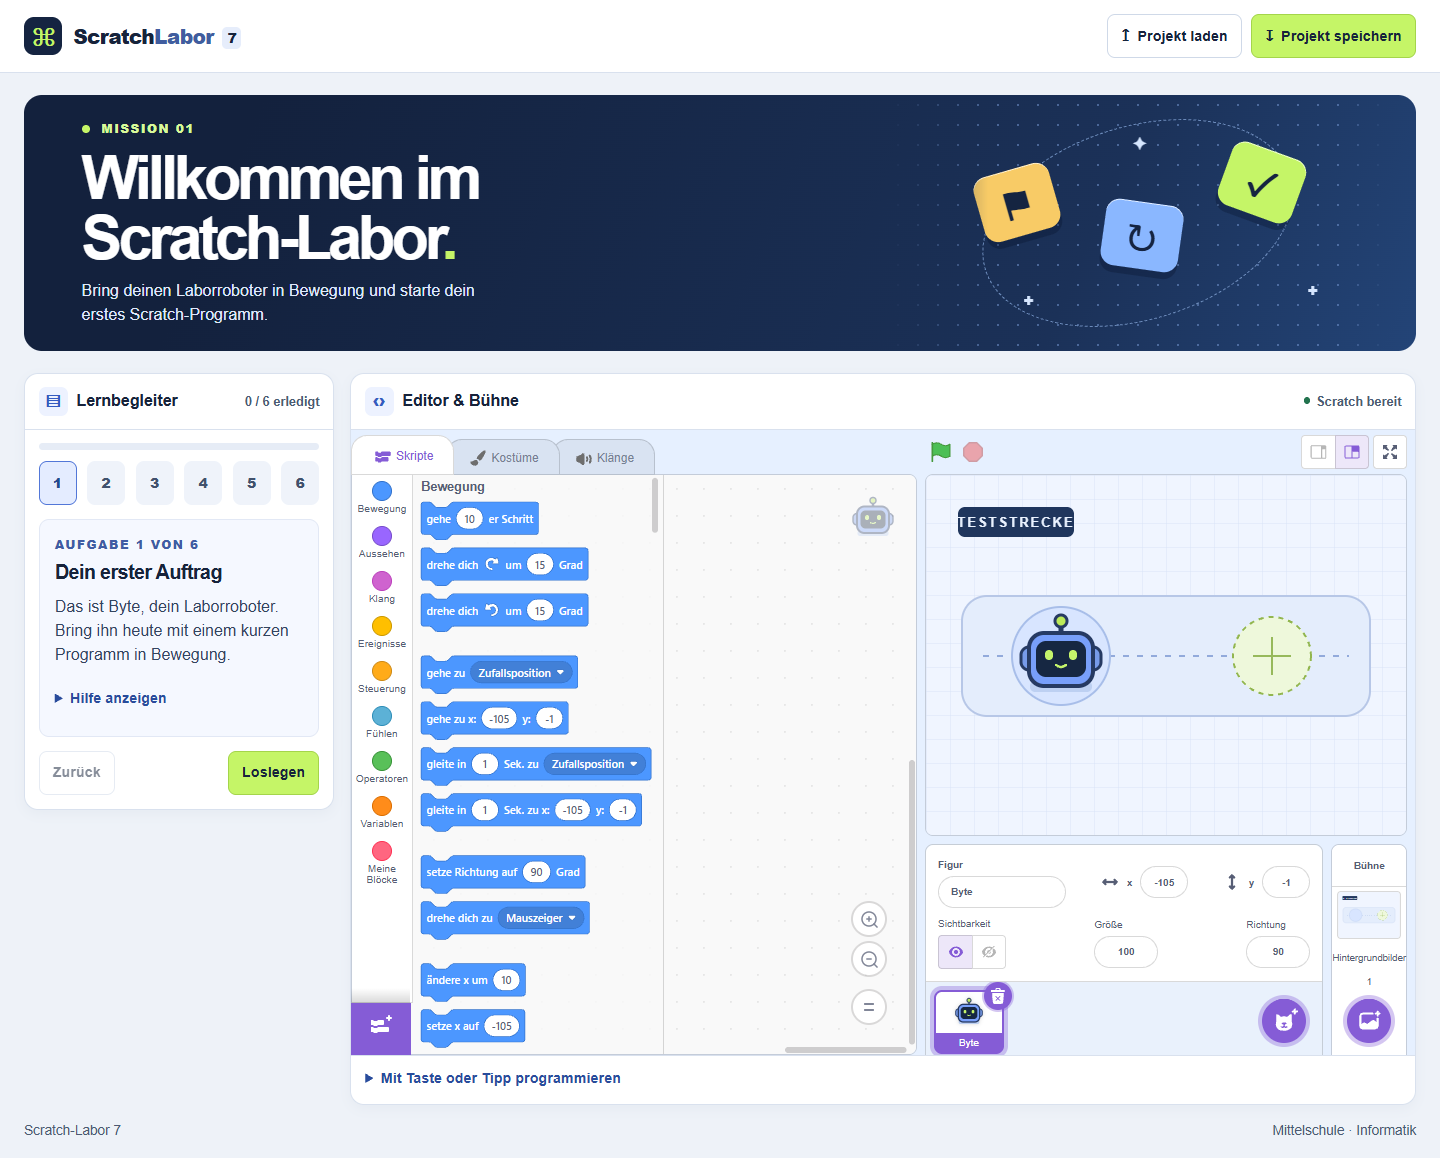
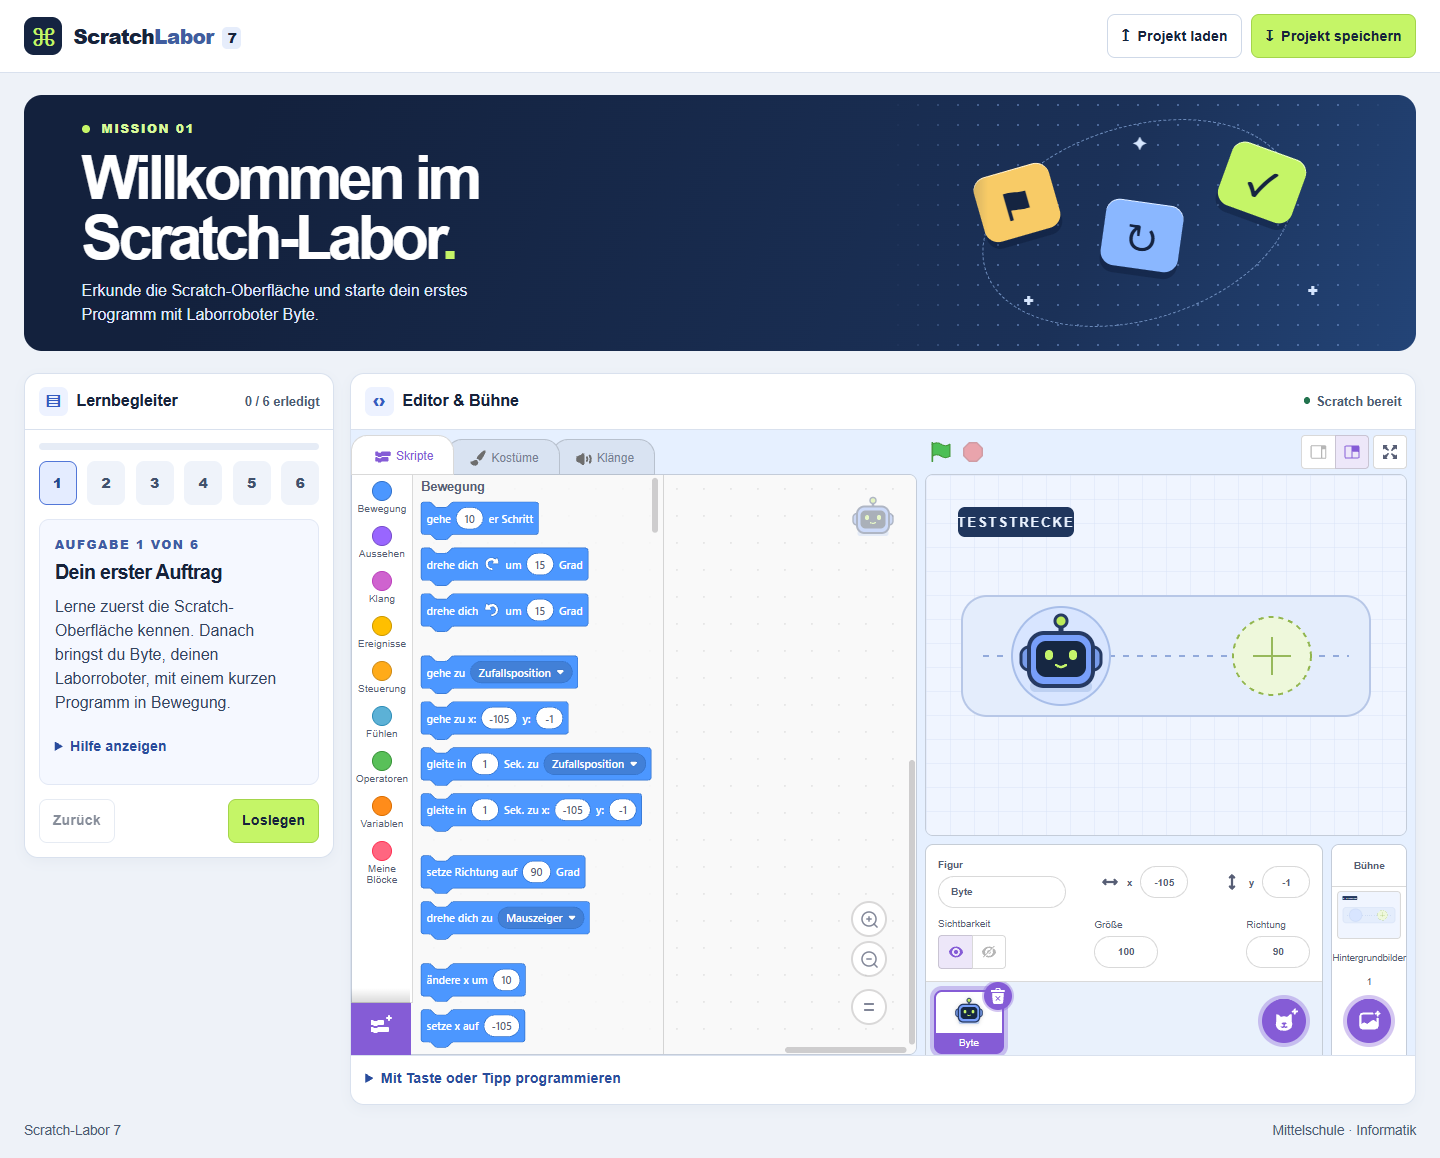
Teach the Scratch interface before the first block

Changed region(s): [[0.0312, 0.4974, 0.1875, 0.715], [0.1562, 0.6218, 0.2188, 0.7461], [0.0625, 0.2487, 0.3125, 0.2798]]

diff --git a/public/labor.js b/public/labor.js
@@ -1,4 +1,4 @@
-import { mission } from './mission.js';
+import { areas, mission } from './mission.js';
 import { openScratch } from './scratch.js';
 
 const byId = id => document.getElementById(id);
@@ -16,6 +16,78 @@ let hintIndex = 0;
 let scratch;
 let busy = true;
 let filename = 'Mission-1-Byte.sb3';
+let selectedArea;
+const editorScroll = document.querySelector('.editor-scroll');
+const selectors = {
+  stage: 'canvas',
+  sprites: '[class*="sprite-selector_items-wrapper"]',
+  blocks: '.blocklyToolboxFlyout',
+  scripts: '.blocklyMainBackground'
+};
+
+function markArea() {
+  const marker = byId('area-marker');
+  const editor = byId('editor');
+  const target = selectedArea && editor.querySelector(selectors[selectedArea.id]);
+  const bounds = target?.getBoundingClientRect();
+  if (!bounds?.width || !bounds.height) {
+    marker.hidden = true;
+    return;
+  }
+  const frame = editorScroll.getBoundingClientRect();
+  const left = selectedArea.id === 'scripts'
+    ? Math.max(bounds.left, editor.querySelector(selectors.blocks)?.getBoundingClientRect().right ?? bounds.left)
+    : bounds.left;
+  Object.assign(marker.style, {
+    left: `${left - frame.left + editorScroll.scrollLeft}px`,
+    top: `${bounds.top - frame.top + editorScroll.scrollTop}px`,
+    width: `${Math.max(0, bounds.right - left)}px`,
+    height: `${bounds.height}px`
+  });
+  marker.hidden = false;
+}
+
+function explainArea(area) {
+  selectedArea = area;
+  const note = byId('area-note');
+  note.hidden = !area;
+  note.textContent = area ? `${area.name} · ${area.description}` : '';
+  for (const button of byId('areas').querySelectorAll('button')) {
+    button.setAttribute('aria-pressed', String(button.dataset.area === area?.id));
+  }
+  markArea();
+}
+
+for (const area of areas) {
+  const row = document.createElement('li');
+  const button = document.createElement('button');
+  const title = document.createElement('strong');
+  const description = document.createElement('span');
+  button.type = 'button';
+  button.className = 'button outline';
+  button.dataset.area = area.id;
+  button.setAttribute('aria-pressed', 'false');
+  title.textContent = area.name;
+  description.textContent = area.description;
+  button.append(title, description);
+  row.append(button);
+  byId('areas').append(row);
+  button.onclick = () => {
+    if (area.id === 'blocks' || area.id === 'scripts') {
+      const codeTab = byId('editor').querySelector('[role="tab"]');
+      if (codeTab?.getAttribute('aria-selected') === 'false') codeTab.click();
+    }
+    explainArea(area);
+    view('editor');
+    requestAnimationFrame(() => {
+      markArea();
+      if (!byId('area-marker').hidden) byId('area-marker').scrollIntoView({ block: 'nearest', inline: 'nearest' });
+    });
+  };
+}
+const orientationResize = new ResizeObserver(markArea);
+orientationResize.observe(editorScroll);
+window.addEventListener('resize', () => requestAnimationFrame(markArea));
 
 function remember() {
   try { localStorage.setItem(progressKey, JSON.stringify({ index, complete: [...complete] })); } catch { /* Session continues. */ }
@@ -49,6 +121,8 @@ function showStep(step, focus = true) {
   byId('step-label').textContent = `AUFGABE ${index + 1} VON ${mission.length}`;
   byId('step-title').textContent = task.title;
   byId('instruction').textContent = task.instruction;
+  byId('orientation').hidden = index !== 1;
+  if (index !== 1) explainArea(null);
   byId('work').hidden = index === 0;
   byId('back').disabled = index === 0;
   byId('next').textContent = task.action ?? 'Prüfen und weiter';
@@ -84,6 +158,11 @@ byId('back').onclick = () => showStep(index - 1);
 byId('more').onclick = () => { hintIndex += 1; displayHint(); };
 byId('next').onclick = () => {
   const task = mission[index];
+  if (index === 1 && !complete.has(index) && byId('area-answer').value !== 'scripts') {
+    feedback('Schau noch einmal auf die freie Arbeitsfläche neben der Blockpalette. Wie heißt sie?');
+    byId('area-answer').focus();
+    return;
+  }
   if (task.check && !complete.has(index)) {
     if (busy || !scratch) return feedback('Warte kurz, bis der Editor bereit ist.');
     if (!scratch.has(task.check)) return feedback(task.wait);
@@ -193,6 +272,7 @@ async function initialize() {
   byId('editor-status').textContent = 'Scratch bereit';
   byId('editor-status').dataset.ready = 'true';
   setBusy(false);
+  markArea();
 }
 
 const timeout = setTimeout(() => {

diff --git a/public/mission.js b/public/mission.js
@@ -1,22 +1,22 @@
 export const mission = [
   {
     title: 'Dein erster Auftrag',
-    instruction: 'Das ist Byte, dein Laborroboter. Bring ihn heute mit einem kurzen Programm in Bewegung.',
-    hints: ['Auf der Bühne siehst du Byte. Im Editor baust du sein Programm.'],
+    instruction: 'Lerne zuerst die Scratch-Oberfläche kennen. Danach bringst du Byte, deinen Laborroboter, mit einem kurzen Programm in Bewegung.',
+    hints: ['Auf der Bühne siehst du Byte. Sein Programm entsteht im Skriptbereich.'],
     action: 'Loslegen'
   },
   {
-    title: 'Erkunde das Labor',
-    instruction: 'Finde die Bühne mit Byte. Tippe unter der Bühne auf die Figur. Suche dann links im Reiter Skripte die blaue Kategorie Bewegung.',
-    hints: ['Auf kleinen Bildschirmen findest du beide Bereiche unter „Editor & Bühne“.', 'Die Bühne zeigt das Ergebnis. Unter Skripte liegen links die Blöcke und daneben die Fläche für dein Programm.'],
-    action: 'Gefunden'
+    title: 'Lerne die Scratch-Oberfläche kennen',
+    instruction: 'Wähle einen Bereich, um ihn im Scratch-Editor zu markieren. Finde danach heraus, wo dein Programm entsteht.',
+    hints: ['Die Skriptblöcke sind einzelne Befehle. In der Blockpalette findest du sie nach Kategorien sortiert.', 'Die freie Fläche rechts neben der Blockpalette ist der Skriptbereich. Dort setzt du die Blöcke zusammen.'],
+    action: 'Zum ersten Block'
   },
   {
     title: 'Bewege Byte',
-    instruction: 'Ziehe „gehe 10 er Schritt“ aus Bewegung auf die freie Codefläche. Tippe einmal auf den Block und beobachte Byte.',
+    instruction: 'Öffne den Reiter Skripte und die blaue Kategorie Bewegung. Ziehe „gehe 10 er Schritt“ aus der Blockpalette in den Skriptbereich. Tippe dort auf den Block und beobachte Byte auf der Bühne.',
     hints: ['Der Block steht weit oben in der blauen Kategorie Bewegung.', 'Öffne für die Tastaturbedienung „Mit Taste oder Tipp programmieren“. Wähle „Bewegung“ und anschließend „Einzelblock testen“.'],
     check: 'move',
-    wait: 'Lege zuerst einen Geh-Block auf die Codefläche einer Figur.',
+    wait: 'Ziehe zuerst einen Geh-Block in den Skriptbereich einer Figur.',
     success: 'Dein Bewegungsblock ist da.'
   },
   {
@@ -44,4 +44,11 @@ export const mission = [
     success: 'Mission geschafft. Byte kann laufen und sich drehen.',
     action: 'Mission abschließen'
   }
+];
+
+export const areas = [
+  { id: 'stage', name: 'Bühne', description: 'Hier siehst du, was dein Programm macht.' },
+  { id: 'sprites', name: 'Figurenliste', description: 'Wähle hier Byte aus. Jede Figur hat ihre eigenen Skripte.' },
+  { id: 'blocks', name: 'Blockpalette', description: 'Hier findest du die Skriptblöcke. Jeder Block steht für einen Befehl oder einen Teil des Programms.' },
+  { id: 'scripts', name: 'Skriptbereich', description: 'Hier setzt du Blöcke zu einem Skript zusammen. Ein Skript ist eine Folge von Befehlen.' }
 ];

diff --git a/public/index.html b/public/index.html
@@ -27,7 +27,7 @@
       <div>
         <p class="eyebrow"><span></span> MISSION 01</p>
         <h1 id="title">Willkommen im<br>Scratch-Labor<span>.</span></h1>
-        <p>Bring deinen Laborroboter in Bewegung und starte dein erstes Scratch-Programm.</p>
+        <p>Erkunde die Scratch-Oberfläche und starte dein erstes Programm mit Laborroboter Byte.</p>
       </div>
       <div class="hero-art" aria-hidden="true"><div class="orbit"></div><div class="art-tile art-event">⚑</div><div class="art-tile art-motion">↻</div><div class="art-tile art-result">✓</div><span class="spark one">✦</span><span class="spark two">+</span><span class="spark three">+</span></div>
     </section>
@@ -46,6 +46,16 @@
             <p class="step-label" id="step-label"></p>
             <h3 tabindex="-1" id="step-title"></h3>
             <p id="instruction"></p>
+            <div id="orientation" hidden>
+              <ul id="areas"></ul>
+              <label for="area-answer">Wo setzt du die Blöcke zu einem Skript zusammen?</label>
+              <select id="area-answer">
+                <option value="">Wähle einen Bereich</option>
+                <option value="stage">Auf der Bühne</option>
+                <option value="blocks">In der Blockpalette</option>
+                <option value="scripts">Im Skriptbereich</option>
+              </select>
+            </div>
             <button id="work" class="button outline work" type="button">Zum Editor und zur Bühne</button>
             <p id="feedback" role="status" class="feedback" hidden></p>
             <details id="hint"><summary>Hilfe anzeigen</summary><p id="hint-text"></p><button class="text-button" id="more" type="button">Nächster Tipp</button></details>
@@ -58,8 +68,10 @@
       </section>
       <section class="panel workspace" id="workspace" aria-labelledby="workspace-label">
         <div class="panel-head"><h2 id="workspace-label" tabindex="-1"><span class="head-icon" aria-hidden="true">‹›</span>Editor &amp; Bühne</h2><span id="editor-status" class="engine" role="status">Editor lädt …</span></div>
+        <p id="area-note" class="area-note" role="status" hidden></p>
         <div class="editor-scroll" tabindex="0" aria-label="Scratch-Arbeitsfläche">
           <div id="editor"></div>
+          <div id="area-marker" aria-hidden="true" hidden></div>
         </div>
         <details id="assist" class="assist">
           <summary>Mit Taste oder Tipp programmieren</summary>

diff --git a/public/labor.css b/public/labor.css
@@ -70,7 +70,16 @@ progress::-webkit-progress-bar { background: #e6ecf6; } progress::-webkit-progre
 summary, .text-button { font-size: .9rem; color: #294c9c; font-weight: 700; min-height: 44px; padding-block: .65rem; }
 .text-button { background: transparent; border: 0; padding-inline: 0; text-decoration: underline; }
 .work, .views { display: none; }
-.editor-scroll { overflow-x: auto; }
+.editor-scroll { position: relative; overflow-x: auto; }
+#areas { display: grid; gap: .35rem; list-style: none; padding: 0; }
+#areas button { width: 100%; text-align: left; font-size: .88rem; }
+#areas button[aria-pressed="true"] { border-color: #5277d8; background: #e4ecff; }
+#areas strong, #areas span { display: block; }
+#areas span { color: var(--muted); margin-top: .1rem; font-weight: 400; }
+#orientation label { display: block; font-weight: 700; font-size: .9rem; margin-top: .7rem; }
+#orientation select { width: 100%; min-height: 44px; margin-top: .28rem; padding: .4rem; border: 1px solid #cfd9e8; border-radius: 8px; color: var(--ink); background: #fff; font: inherit; font-size: .9rem; }
+.area-note { margin: 0; padding: .62rem .85rem; color: #19377b; background: #e4ecff; border-bottom: 1px solid #b9c9ed; }
+#area-marker { position: absolute; z-index: 12; pointer-events: none; border: 3px solid #2858cf; border-radius: 8px; box-shadow: inset 0 0 0 2px #fff; }
 #editor { height: clamp(490px, 55vh, 650px); min-width: 730px; background: #f7f9fc; }
 #editor [class*="gui_page-wrapper"] { min-width: 0; }
 #editor [class*="gui_editor-wrapper"] { flex-basis: 0; min-width: 430px; }

diff --git a/public/offline.js b/public/offline.js
@@ -1,4 +1,4 @@
-const cacheName = 'scratch-labor-7-v5';
+const cacheName = 'scratch-labor-7-v6';
 const core = ['./', './labor.css', './labor.js', './mission.js', './scratch.js', './assets/start.sb3',
   './assets/byte.svg', './vendor/dist/scratch-gui-standalone.js'];
 

diff --git a/README.md b/README.md
@@ -19,7 +19,7 @@ Für iPads im selben Schulnetz starte den Server mit `node scripts/serve.mjs --l
 
 ## Im Unterricht
 
-1. Mit **Loslegen** starten und die Bühne, die Figur und den Reiter **Skripte** erkunden.
+1. Mit **Loslegen** starten. Bühne, Figurenliste, Blockpalette und Skriptbereich im Editor markieren und die kurze Frage zum Skriptbereich beantworten.
 2. Einen Bewegungsblock ziehen und direkt ausführen. Danach das Startereignis mit der grünen Flagge verbinden.
 3. Das Programm mit zwei verschiedenen Schrittzahlen ausführen. Zum Schluss eine Drehung ergänzen und die Reihenfolge erproben.
 4. Mit **Projekt speichern** eine `.sb3`-Datei herunterladen. Mit **Projekt laden** kann Scratch dieselbe Datei später öffnen.
@@ -53,20 +53,20 @@ Der automatisierte Lauf unter Windows mit Chrome und Playwright ergab:
 | Prüfung | Ergebnis |
 | --- | --- |
 | Desktop bei 1440 × 1000 | Bewegungsblock nativ gezogen. Startereignis, Schrittzahl und Drehung ergänzt. Die Position und Richtung der Figur änderten sich beim Start wie erwartet. Alle sechs Aufgaben abgeschlossen. |
-| Tastatur und Hilfe | Hilfe und Weiter-Schaltflächen per Eingabetaste bedient. Die Eingabe eines fehlenden Blocks wurde mit einem konkreten Hinweis beantwortet. |
+| Orientierung, Tastatur und Hilfe | Alle vier Bereiche per Eingabetaste im echten Editor markiert. Hilfe, Verständnisfrage und Weiter-Schaltflächen bedient. Bei einer falschen Zuordnung und einem fehlenden Block erschien jeweils ein Hinweis. |
 | Lokale Projektdatei | .sb3 heruntergeladen, Seite neu geladen, Datei geöffnet und das gespeicherte Skript erneut ausgeführt. |
 | iPad-Emulation | Touchbedienung bei 820 × 1180, Umschaltung ins Querformat bei 1180 × 820. Einzelblock und Flaggenstapel per Touch ausgeführt. |
 | Offline | Netzwerk im Testbrowser deaktiviert und Testserver gestoppt. Seite erneut geöffnet, .sb3 geladen und Programm gestartet. |
-| Browserdiagnostik | Keine Konsolen- oder HTTP-Fehler und keine externen Anfragen im getesteten Lernweg. |
+| Browserdiagnostik | Keine HTTP-Fehler oder externen Anfragen im Lernweg. Bei gestopptem Server meldete Scratch fehlende Dateien für die Vorbereitung des optionalen Kostümeditors. Die Mission lief weiter. |
 
-Aufnahmen aus dem Testlauf: [Desktop](screenshots/desktop.png) · [Abgeschlossene Mission](screenshots/mission-abgeschlossen.png) · [iPad hoch](screenshots/ipad-portrait.png) · [iPad quer](screenshots/ipad-querformat.png).
+Aufnahmen aus dem Testlauf: [Desktop](screenshots/desktop.png) · [Orientierung](screenshots/orientierung.png) · [Abgeschlossene Mission](screenshots/mission-abgeschlossen.png) · [iPad hoch](screenshots/ipad-portrait.png) · [iPad quer](screenshots/ipad-querformat.png).
 
 ## Grenzen und nächste Schritte
 
 - Der Prototyp enthält Mission 1. Neuladen öffnet das Startprojekt. Der Lernfortschritt bleibt im Browser, das Schülerprojekt bleibt über die gespeicherte `.sb3`-Datei erhalten.
 - Die Lernprüfung ist auf kurze, gerade Blockstapel dieser Mission ausgelegt. Sie beobachtet die ersten 240 ms nach der grünen Flagge. Freie Programme mit Wartezeiten, Schleifen oder anderen Startereignissen werden in Scratch ausgeführt, können aber durch diese Missionsprüfung unberücksichtigt bleiben.
 - Die ergänzenden Tasten decken die Missionsblöcke ab. Der volle Scratch-Editor behält seine ursprüngliche Bedienung. Auf sehr schmalen Geräten kann die Arbeitsfläche innen horizontal scrollen.
-- Scratch-Bibliotheken und Erweiterungen können beim Öffnen weitere Ressourcen benötigen. Der Offline-Test umfasst die Mission und die lokale Projektdatei. Browserdaten können nach Speicherdruck oder durch Schulrichtlinien gelöscht werden.
+- Scratch-Bibliotheken und Erweiterungen können beim Öffnen weitere Ressourcen benötigen. Das Vorladen des Kostümeditors benötigt in Chrome einen erreichbaren Server. Der Offline-Test umfasst die Mission und die lokale Projektdatei. Browserdaten können nach Speicherdruck oder durch Schulrichtlinien gelöscht werden.
 - Vor der nächsten Mission sollte eine Klasse den gesamten Lernweg in Safari auf einem tatsächlich verwalteten Schul-iPad und im Schulnetz erproben. Danach bieten sich ein gemeinsam geprüfter HTTPS-Betrieb und eine Unterrichtserprobung an, bevor weitere Missionen dazukommen.
 
 ## Quellcode und Lizenz
